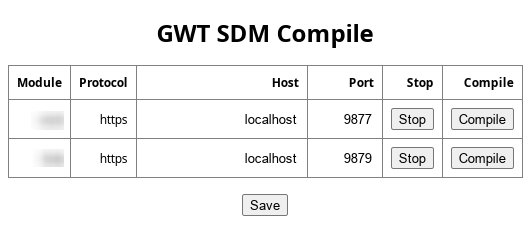
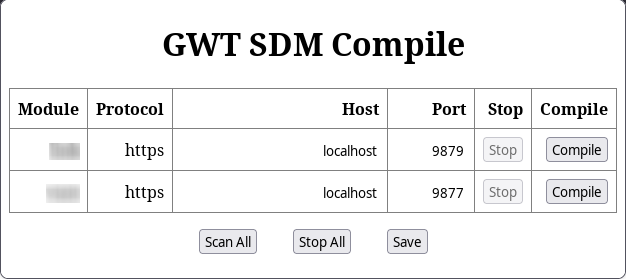
fixed iframes of different origin in firefox

diff --git a/popup.js b/popup.js
@@ -1,10 +1,11 @@
 "use strict";
 
+const portOffset = 9876;
+let currentModuleIndex = 0;
+
 document.addEventListener('DOMContentLoaded', function () {
     console.log("Starting GWT SDM Extension Popup");
     let tab;
-    let currentModuleIndex = 0;
-    let portOffset = 9876;
 
     function showError(message) {
         const e = document.getElementById("error");
@@ -117,7 +118,6 @@ document.addEventListener('DOMContentLoaded', function () {
                 });
             });
 
-            
             const stopButton = document.getElementById("stop:" + sender.frameId);
             stopButton.disabled = !isModuleCompiled;
 
@@ -179,40 +179,52 @@ document.addEventListener('DOMContentLoaded', function () {
         chrome.storage.local.set(config);
     });
 
-    chrome.tabs.query({active: true, currentWindow: true}, function(tabs) {
-        tab = tabs[0];
-        //console.log("currentTab: " + tab.title);
-        chrome.scripting.executeScript({
-            target: {tabId: tab.id, allFrames: true},
-            func: function() {
-                    // content script
-                    //console.log("Initializing scan content script for " + location);
+    function scan() {
+        currentModuleIndex = 0;
+        document.querySelectorAll('table#list tr.config').forEach(row => {
+            row.remove();
+        });
+        chrome.tabs.query({active: true, currentWindow: true}, function(tabs) {
+            tab = tabs[0];
+            //console.log("currentTab: " + tab.title);
+            chrome.scripting.executeScript({
+                target: {tabId: tab.id, allFrames: true},
+                func: function() {
+                        // content script
+                        //console.log("Initializing scan content script for " + location);
 
-                    function messageEventListener(event) {
-                        const message = event.data;
-                        //console.log('content.js got message: ', message);
+                        function messageEventListener(event) {
+                            const message = event.data;
+                            //console.log('content.js got message: ', message);
 
-                        if (!message.hasOwnProperty('type') || message.type !== 'gwtActiveModules') {
-                            console.log("Unexpected message type: ", message);
-                            return;
+                            if (!message.hasOwnProperty('type') || message.type !== 'gwtActiveModules') {
+                                console.log("Unexpected message type: ", message);
+                                return;
+                            }
+
+                            // send it to the extension
+                            chrome.runtime.sendMessage(event.data);
+                            removeEventListener('message', messageEventListener);
                         }
 
-                        // send it to the extension
-                        chrome.runtime.sendMessage(event.data);
-                        removeEventListener('message', messageEventListener);
-                    }
+                        addEventListener('message', messageEventListener);
 
-                    addEventListener('message', messageEventListener);
-
-                    const script = document.createElement('script');
-                    script.src = chrome.runtime.getURL('scan.js');
-                    script.onload = function() {
-                        //console.log("scanPageJs loaded");
-                        this.remove();
-                    };
-                    // console.log(script.textContent);
-                    document.head.appendChild(script);
-                },
+                        const script = document.createElement('script');
+                        script.src = chrome.runtime.getURL('scan.js');
+                        script.onload = function() {
+                            //console.log("scanPageJs loaded");
+                            this.remove();
+                        };
+                        // console.log(script.textContent);
+                        document.head.appendChild(script);
+                    },
+            });
         });
+    }
+
+    document.getElementById("scanAll").addEventListener('click', function() {
+        chrome.permissions.request({origins: ["<all_urls>"]});
+        scan();
     });
+    scan();
 }, false);

diff --git a/popup.html b/popup.html
@@ -21,7 +21,7 @@
         outline: none;
       }
       
-      button#save {
+      button.footer {
         margin: 1rem;
       }
 
@@ -44,8 +44,9 @@
       <th>Compile</th>
     </tr>
   </table>
-  <button id="stopAll" title="Stops DevMode in all detected, compiled GWT modules.">Stop All</button>
-  <button id="save" title="Saves the host:port configuration.">Save</button>
+  <button id="scanAll" class='footer' title="Scan iframes even the one with different origin.">Scan All</button>
+  <button id="stopAll" class='footer' title="Stops DevMode in all detected, compiled GWT modules.">Stop All</button>
+  <button id="save" class='footer' title="Saves the host:port configuration.">Save</button>
   <div id="error" style="display: none;"></div>
 </body>
 </html>

diff --git a/README.md b/README.md
@@ -9,8 +9,8 @@ This extension replaces the following bookmarklets:
 It works in Firefox and Chrome and it is Manifest V3 based.
 
 The extension scans for all GWT modules in all frames (main window and
-iframes) but iframes with different origin do not work in Firefox
-currently.
+iframes). In firefox you need to click in the scanAll button to request
+an extra permission in order to work for iframes with different origins.
 
 ![Screenshot](img/screenshot.png)
 
@@ -24,7 +24,7 @@ https://vasvir.wordpress.com/2017/02/07/gwt-super-dev-mode-https-setup-in-7-step
 The extension is for GWT users, which are developers, and which should know
 what they are doing. Obviously if you use extensions like this that injects
 scripts left and right you may open your self some new security holes. If you
-have any doubts please review the source code (< 250 LOC) and decide for your
+have any doubts please review the source code (~ 250 LOC) and decide for your
 self.
 
 ## How to run it
@@ -32,7 +32,8 @@ self.
 There are no plans yet to release this extension officially. Since it
 addresses developers and not the generally public this is not required.
 A developer can easily clone it from GitHub and install it directly from
-the cloned directory.
+the cloned directory. There are many resources in the web on how to do this
+for both Firefox and Chrome.
 
 ## How it works
 
@@ -50,10 +51,6 @@ handles the actual compilation exactly as it was with the bookmarklets.
 
 ## Known Issues
 
-### IFrames support
-
-Scanning iframes works in Chrome but not in Firefox. Not sure why.
-
 ### Protection hurdles
 
 With the advent of Content Security Policies (CSP) and the automatic blocking
@@ -68,9 +65,9 @@ extension has all the access it requires even if it has to go the trampoline
 hoops described above.
 
 The problem is that dev_mode.js is served by the GWT codeserver and that
-means it is changed in sync with the codeserver as it is the only client of
-it. It won't be fun to incorporate the current dev_mode.js just to have a new
-incompatible one released the next day.
+means it is changed in lockstep with the codeserver as it is the only client
+of it. It won't be fun to incorporate the current dev_mode.js just to have a
+new incompatible one released the next day.
 
 So for now if you encounter problems with the compilation try to
 
